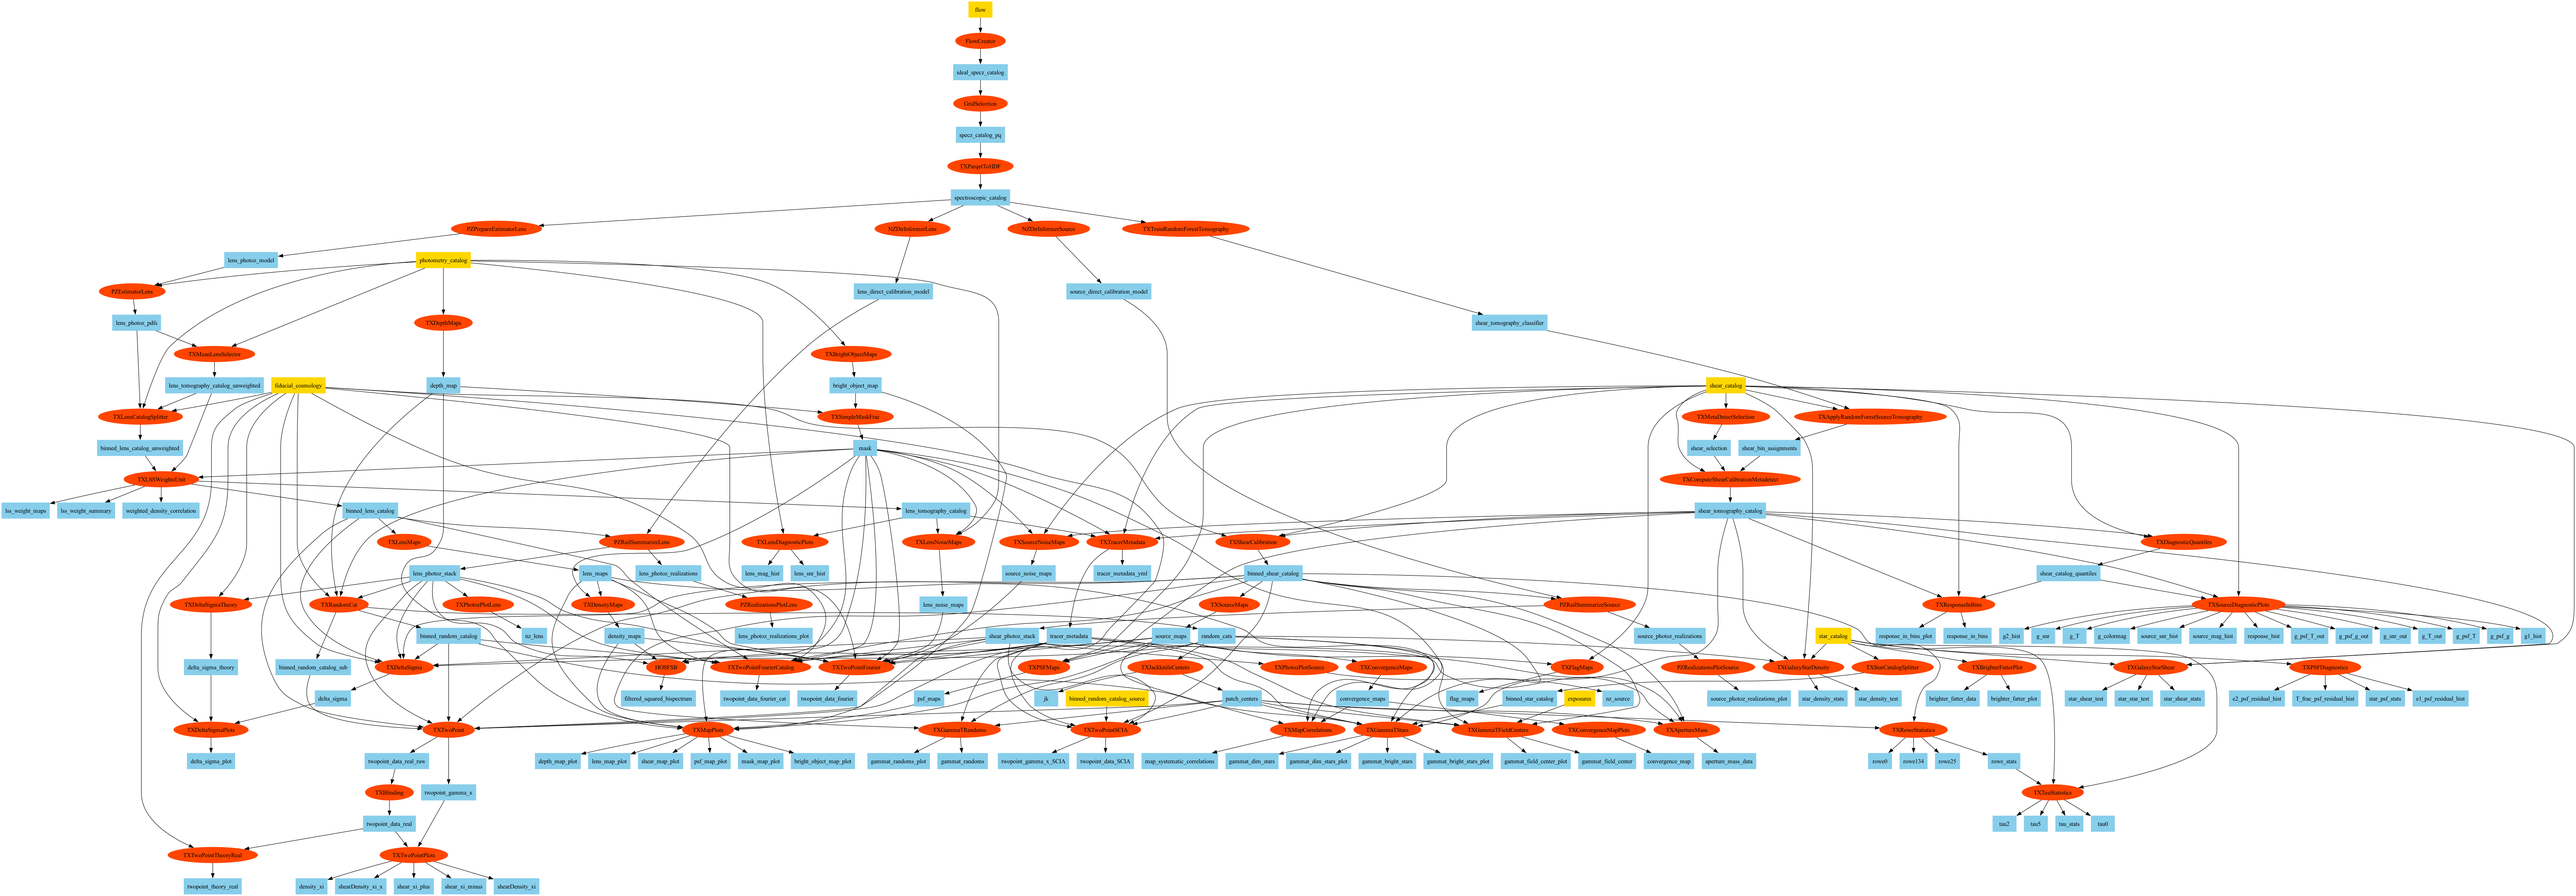
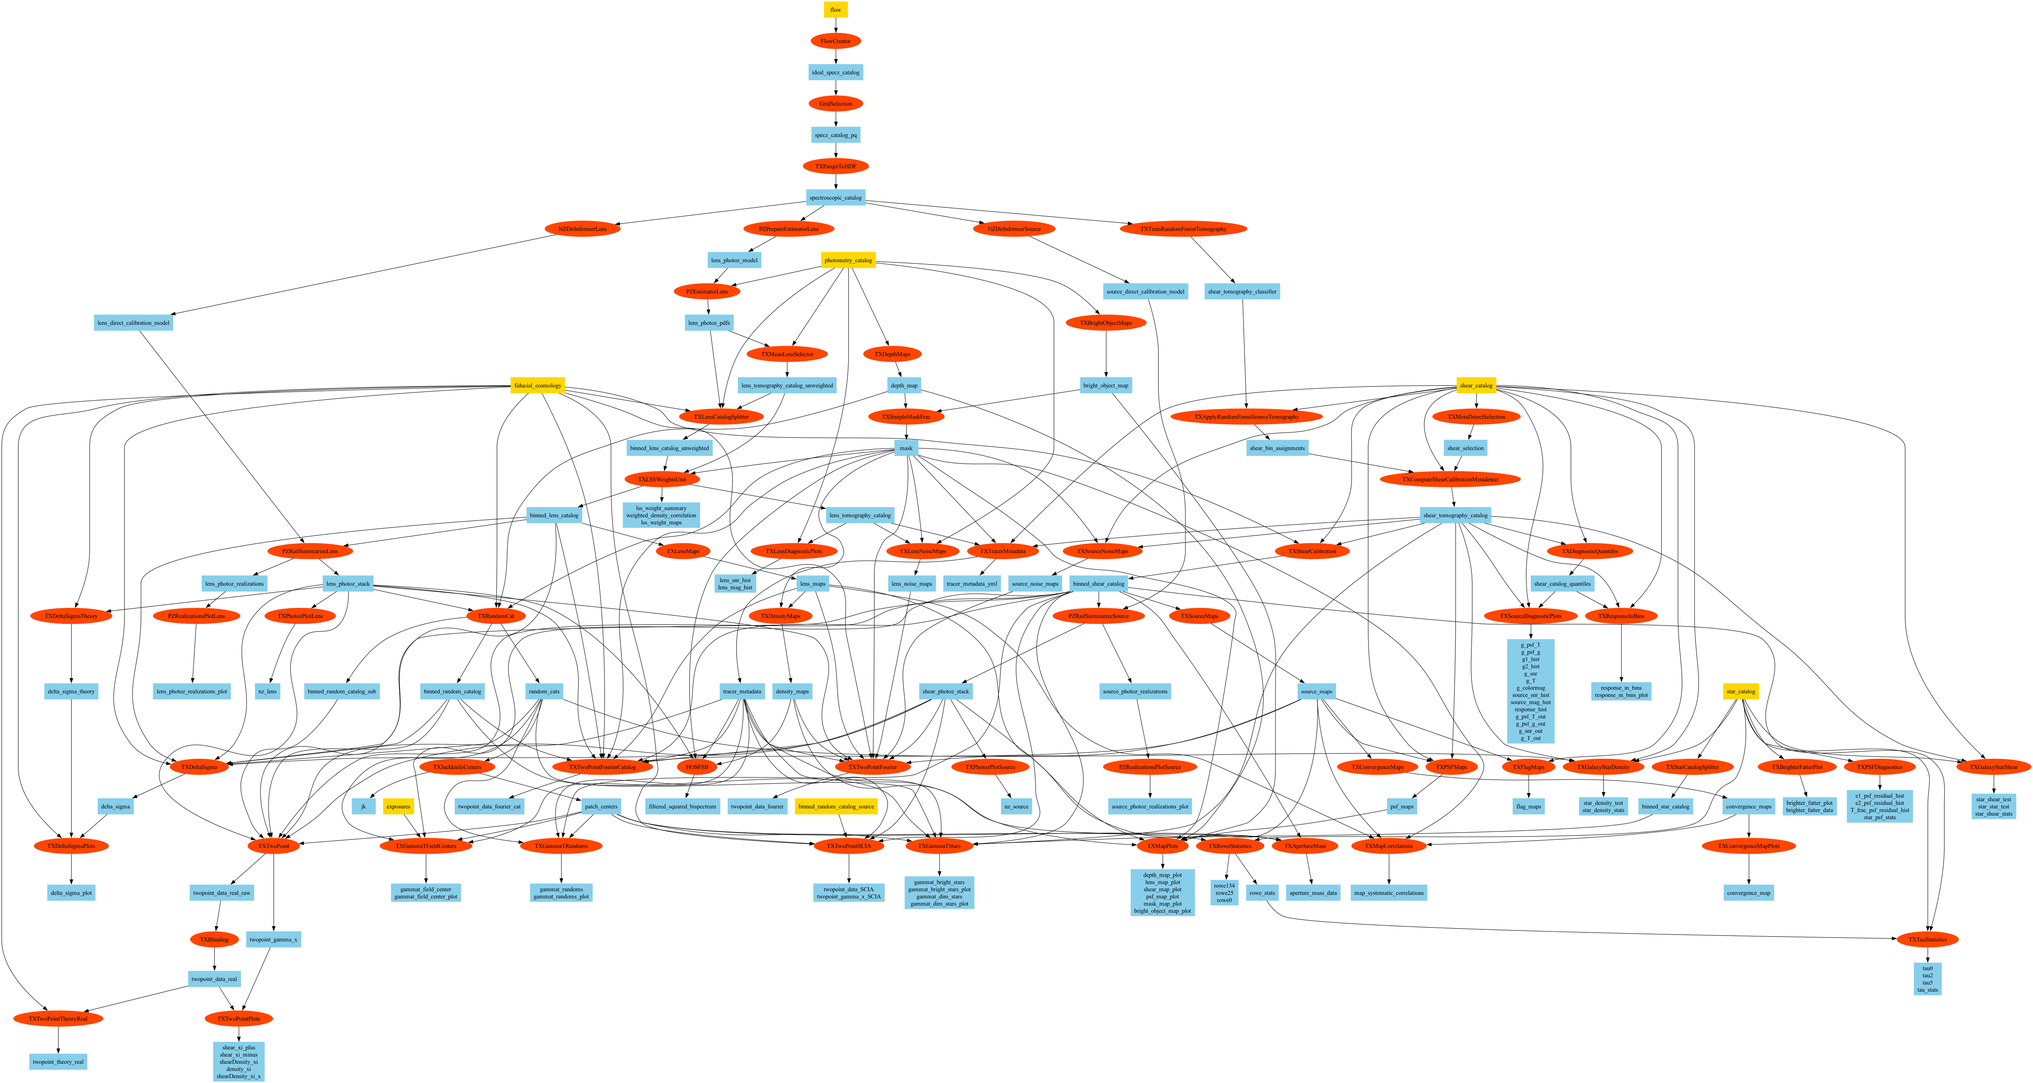
docs: use ceci --flow-chart instead of bin/flow_chart.py
Remove bin/flow_chart.py, which duplicated ceci's own flow chart option and
did not handle aliases or classnames. The docs now use `ceci --flow-chart`,
and the example flow chart is regenerated with it.

diff --git a/docs/src/example.rst b/docs/src/example.rst
@@ -45,7 +45,7 @@ You can make charts like this using:
 
 .. code-block:: bash
 
-    python bin/flow_chart.py examples/metadetect/pipeline.yml metadetect.png
+    ceci --flow-chart metadetect.png examples/metadetect/pipeline.yml
 
 
 Results
